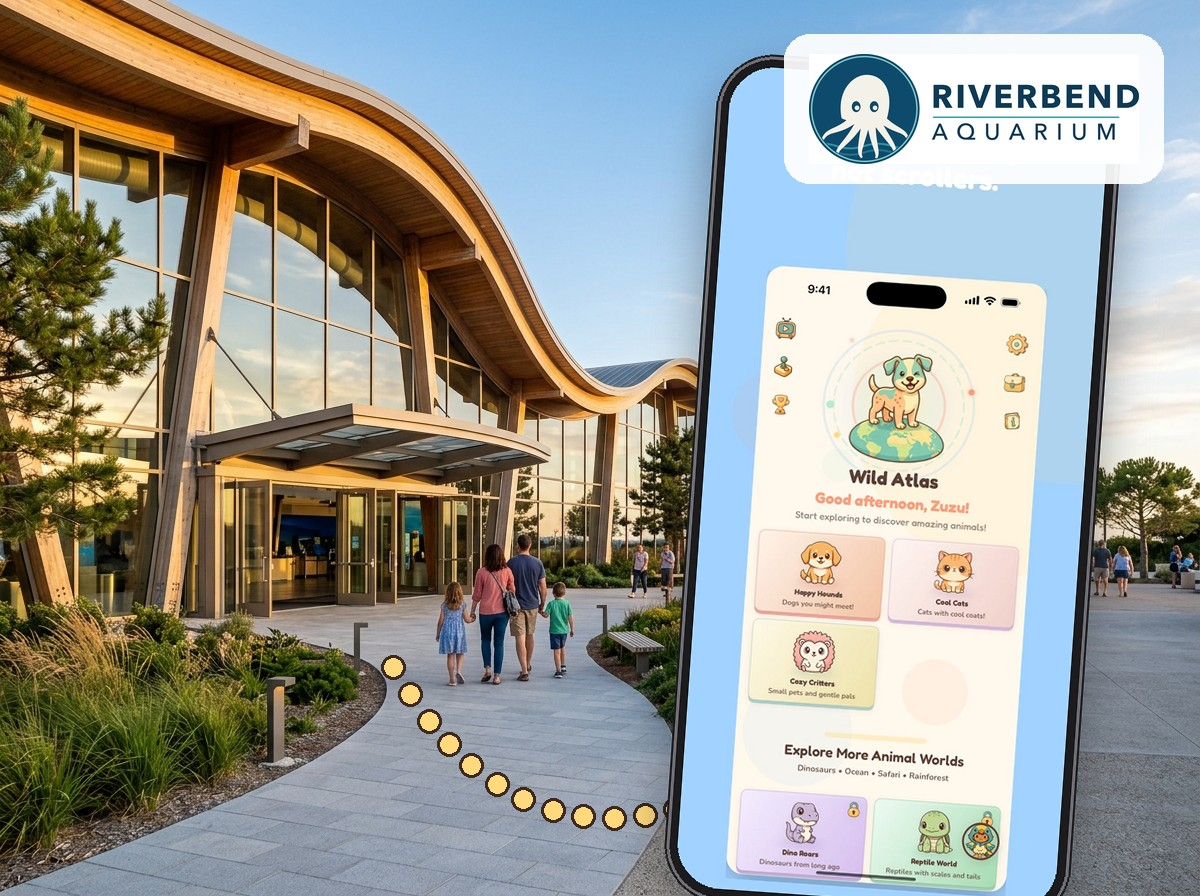
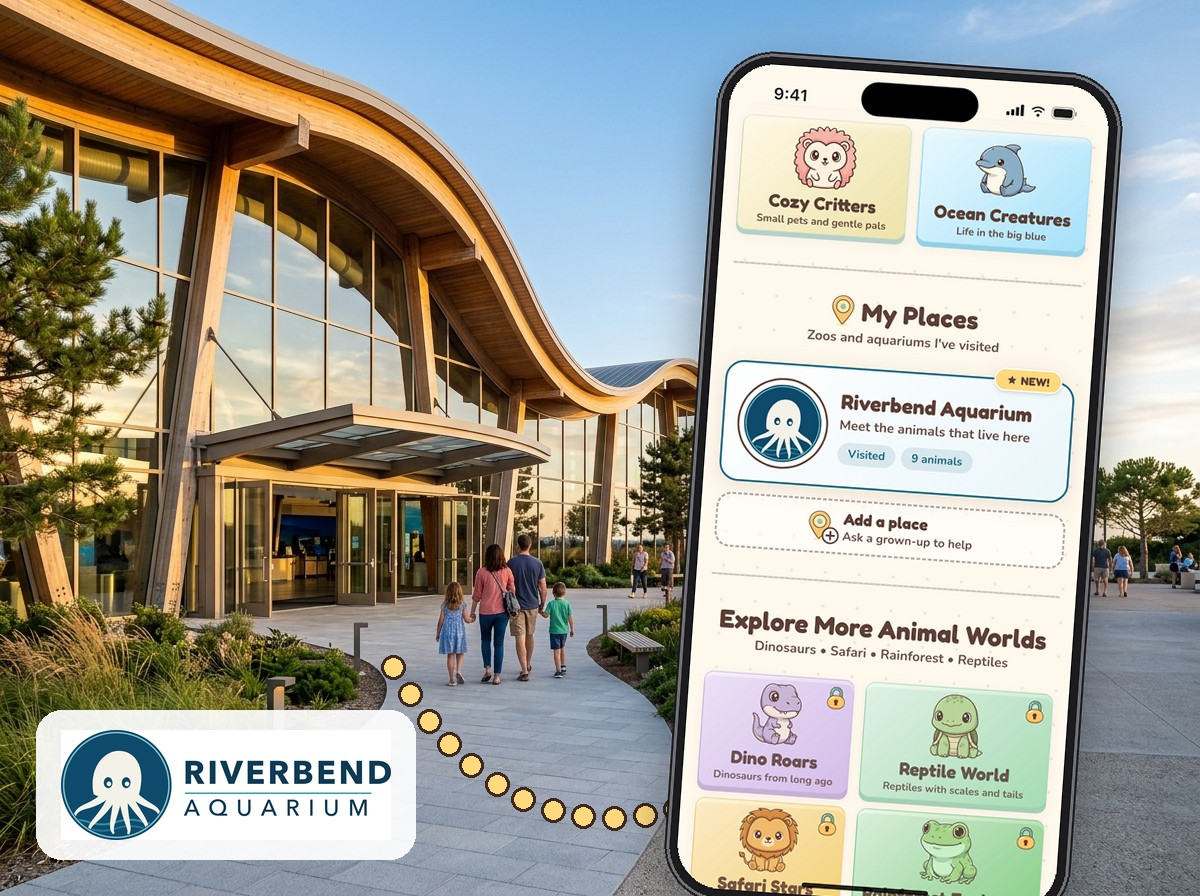
partners: Anna's concept screens in the hero and the Run section
Hero phone now shows the Home screen with My Places (bigger phone, logo tag
moved to the bottom left). Run section shows three phones: Home with My Places,
the venue page (animals), and facts plus top exhibits. Screens are Anna's
round-2 concept PNGs, labelled as concept screens for a fictional venue.
Includes her two extra exhibit photos and design note.

Changed region(s): [[0.555, 0.0312, 0.9867, 1.0], [0.0308, 0.7812, 0.37, 0.9688]]

diff --git a/partners.html b/partners.html
@@ -112,11 +112,11 @@
     .pp-strip:focus-visible { outline: 3px solid var(--peach-pop); outline-offset: 2px; }
 
     /* Run example: phone mockups drawn in the app's look */
-    .pp-phones { display: flex; flex-wrap: wrap; gap: var(--space-xl); justify-content: center; margin-top: var(--space-xl); }
+    .pp-phones { display: flex; flex-wrap: wrap; gap: var(--space-lg); justify-content: center; margin-top: var(--space-xl); }
     .pp-hero-art { margin: 0; }
     .pp-hero-art img { display: block; width: 100%; height: auto; border-radius: var(--radius-md); box-shadow: 0 16px 40px rgba(93, 64, 55, .18); }
     .pp-hero-art figcaption { margin-top: var(--space-xs); font-size: .78rem; opacity: .75; text-align: center; }
-    .pp-phone-wrap { margin: 0; text-align: center; width: min(100%, 300px); }
+    .pp-phone-wrap { margin: 0; text-align: center; width: min(100%, 270px); }
     .pp-phone-wrap img { display: block; width: 100%; height: auto; }
     .pp-phone-wrap figcaption { margin-top: var(--space-xs); font-weight: 700; font-size: .92rem; }
     .pp-strip-wrap { min-width: 0; }
@@ -298,19 +298,23 @@
         <div class="pp-head">
           <p class="pp-eyebrow">Run &middot; what it looks like</p>
           <h2>Your zoo, inside the app.</h2>
-          <p>A tile on the home screen for your venue, and a pack page of your animals. Same narrated, ad-free Wild Atlas experience, with your name on it. We build it at no cost to you.</p>
+          <p>A place for your venue on every child&rsquo;s home screen, and a page of your animals, facts and top exhibits. Same narrated, ad-free Wild Atlas experience, with your name on it. We build it at no cost to you.</p>
         </div>
         <div class="pp-phones">
           <figure class="pp-phone-wrap">
-            <img src="assets/partners/run-home-phone.png" width="718" height="1161" alt="The Wild Atlas home screen with a My Zoo section and a Riverbend Aquarium tile" loading="lazy">
-            <figcaption>Home screen: a &ldquo;My Zoo&rdquo; section with your tile</figcaption>
+            <img src="assets/partners/run-home-phone.png" width="718" height="1161" alt="The Wild Atlas home screen with a My Places section showing a Riverbend Aquarium tile" loading="lazy">
+            <figcaption>Home: a &ldquo;My Places&rdquo; section with your tile</figcaption>
           </figure>
           <figure class="pp-phone-wrap">
-            <img src="assets/partners/run-pack-phone.png" width="718" height="1161" alt="A Riverbend Aquarium pack page with eight animals" loading="lazy">
-            <figcaption>Pack page: your animals, your name</figcaption>
+            <img src="assets/partners/run-pack-phone.png" width="718" height="1161" alt="The Riverbend Aquarium page with a grid of nine animals and page buttons 1, 2 and 3" loading="lazy">
+            <figcaption>Your page: your animals, your name</figcaption>
+          </figure>
+          <figure class="pp-phone-wrap">
+            <img src="assets/partners/run-pack2-phone.png" width="718" height="1161" alt="The lower part of the Riverbend Aquarium page with facts about the aquarium and a row of top exhibits" loading="lazy">
+            <figcaption>Facts and top exhibits, with a grown-up gate</figcaption>
           </figure>
         </div>
-        <p class="pp-run-note"><span class="pp-note">Illustrative mockup</span> &ldquo;Riverbend Aquarium&rdquo; is a fictional venue. The venue tile and pack page are a design example of what we&rsquo;d build together, not a feature in the app today. Screens are illustrative mockups made from real Wild Atlas app screenshots.</p>
+        <p class="pp-run-note"><span class="pp-note">Concept screens</span> &ldquo;Riverbend Aquarium&rdquo; is a fictional venue. These screens show what we would build together; the venue experience is not in the app today. Animal art is from the Wild Atlas app; the exhibit photos are AI-generated.</p>
       </div>
     </section>
 

diff --git a/print-sources/riverbend-book/compose_assets.py b/print-sources/riverbend-book/compose_assets.py
@@ -1,8 +1,9 @@
 #!/usr/bin/env python3
 """Compose the web assets for /partners from generated + real imagery:
   assets/partners/hero-riverbend.jpg   realistic aquarium + the real marketing screenshot in an iPhone
-  assets/partners/run-home-phone.png   Gemini-edited real home screen (My Zoo tile) in an iPhone
-  assets/partners/run-pack-phone.png   Gemini-edited real pack page in an iPhone
+  assets/partners/run-home-phone.png   Anna's concept Home screen (My Places) in an iPhone
+  assets/partners/run-pack-phone.png   Anna's concept pack page, top, in an iPhone
+  assets/partners/run-pack2-phone.png  Anna's concept pack page, facts and exhibits, in an iPhone
   assets/partners/book-*.jpg           pages of the example book PDF"""
 import math, sys
 from pathlib import Path
@@ -41,7 +42,7 @@ def dotted(img, pts, color=(255, 217, 125), step=30, rad=9):
 
 def hero():
     base = Image.open(HERE / "hero" / "hero-bg.jpg").convert("RGB")
-    shot = Image.open(SITE / "assets" / "press" / "ss-home.jpg").convert("RGB")      # real marketing screenshot
+    shot = Image.open(HERE / "screens-anna" / "run-home-places.png").convert("RGB")      # Anna's My Places home screen
     ph = make_phone(shot, 380, tilt=-4)
     base = base.convert("RGBA")
     dotted(base, [(380, 640), (470, 830), (620, 860), (760, 770)])
@@ -50,12 +51,12 @@ def hero():
     tag = tag.crop(ImageOps.invert(tag.convert("L")).point(lambda v: 255 if v > 12 else 0).getbbox())
     tw = 330; tag = tag.resize((tw, int(tag.height * tw / tag.width)), Image.LANCZOS)
     pill = Image.new("RGBA", (tw + 50, tag.height + 40), (0, 0, 0, 0)); ImageDraw.Draw(pill).rounded_rectangle([0, 0, pill.width - 1, pill.height - 1], 26, fill=(255, 255, 255, 235))
-    pill.paste(tag, (25, 20)); base.alpha_composite(pill, (base.width - pill.width - 36, 34))
+    pill.paste(tag, (25, 20)); base.alpha_composite(pill, (36, base.height - pill.height - 36))
     base.convert("RGB").save(OUT / "hero-riverbend.jpg", quality=90); print("hero ok")
 
 def phones():
-    for src, name in (("screens/run-home-t1.jpg", "run-home-phone.png"), ("screens/run-pack-t3.jpg", "run-pack-phone.png")):
-        make_phone(Image.open(HERE / src), 560).save(OUT / name, optimize=True); print(name, "ok")
+    for src, name in (("run-home-places.png", "run-home-phone.png"), ("run-pack-top.png", "run-pack-phone.png"), ("run-pack-lower.png", "run-pack2-phone.png")):
+        make_phone(Image.open(HERE / "screens-anna" / src).convert("RGB"), 560).save(OUT / name, optimize=True); print(name, "ok")
 
 def book_pages(pdf):
     import pymupdf

diff --git a/print-sources/riverbend-book/gen_scenes.py b/print-sources/riverbend-book/gen_scenes.py
@@ -16,6 +16,8 @@ JOBS = {  # name: (aspect, folder, prompt)
   "tunnel": ("4:3", "aquarium", "Inside an aquarium: a curved acrylic walk-through tunnel with sharks and a manta ray gliding overhead in deep blue water, soft rippling light on the floor, small silhouettes of visitors looking up. "),
   "jellies": ("4:3", "aquarium", "An aquarium gallery with a large round tank of glowing translucent moon jellyfish drifting in deep blue water, softly lit, a couple of visitor silhouettes in the foreground. "),
   "touchpool": ("4:3", "aquarium", "An aquarium touch pool: children's hands (no faces) gently touching a starfish in shallow clear water in a rock-lined pool, bright natural light, a few orange and purple sea stars visible. "),
+  "otterbay": ("4:3", "aquarium", "An aquarium marine-mammal gallery: a big glass viewing window onto a rocky pool where a sea otter floats on its back at the surface and a sea lion glides past underwater, bright natural light, a couple of visitor silhouettes in the foreground. "),
+  "rainforest": ("4:3", "aquarium", "An aquarium indoor rainforest gallery: lush green plants and a mossy log in a glass-fronted habitat with a bright blue poison dart frog on a leaf and a sloth hanging from a branch, warm humid light, a couple of visitor silhouettes in the foreground. "),
   "hero-bg": ("4:3", "hero", "A wide scene of the front plaza of an imaginary modern public aquarium: a curved glass-and-timber facade with a wave-shaped roof and wide entrance doors on the left, a smooth paved path curving from the foreground toward the right of the frame, planters and low greenery, clear blue sky with a few soft clouds, golden-hour light, open uncluttered space on the right side and in the lower right for overlaying a phone. "),
 }
 def call(prompt, ar):

diff --git a/print-sources/riverbend-book/screens-anna/DESIGN_NOTE.md b/print-sources/riverbend-book/screens-anna/DESIGN_NOTE.md
@@ -1,0 +1,81 @@
+# Riverbend concept screens — design note
+
+**Round 2 (2026-10-06), from Josh's review notes:** "Add a place" smaller; pack-page and Home copy no longer assume a same-day visit ("Meet the animals that live at Riverbend…", pill "Visited"); 118-character place description above the stats; For grown-ups card replaced by a **Learn more** pill (website, behind the parental gate, same F11 teal pair, 7.61:1); every Top Exhibits card is now a photo (two new Gemini photos via `gen_scenes.py`: `otterbay`, `rainforest`). Sections below describing the For grown-ups card and the duo animal tiles are superseded by this round.
+
+Three PNGs, 1206x2622, screen only: `run-home-places.png`, `run-pack-top.png`, `run-pack-lower.png`.
+
+## How they were made (read first)
+
+**Drawn, not rendered from the app.** HTML/CSS built to the shipped components' specs, screenshotted headless at 402x874 @3x. It uses the app's real fonts (Fredoka, Nunito), real pack mascots (`GeneratedPackMascots`), real animal hero art, and the real back, lock, pin and treasure icons. It is not a SwiftUI render, so it is "same standard", not pixel-identical. Source and generator are in `source/` (`python3 gen.py`, then `shot.sh`).
+
+The status bar is drawn. A cream scrim sits under it on Home so the scrolled-out Happy Hounds row doesn't collide with the clock. The app has no such scrim, so this is a cosmetic liberty.
+
+I omitted the "Sample facts for a fictional venue" caption from your layout, since the app wouldn't show it. **The partner page should label these as concept.**
+
+## Checklist
+
+**A. System**
+- Palette: pass. All AppTheme tokens, plus a manifest-style venue pack palette (accent `#1F6A85`, wash `#EAF6FB`), which pack surfaces are meant to have (DESIGN_SYSTEM §1 "Off-token by design"). peachPop is not used anywhere. That is correct, because the Home CTA is off-screen and no new primary action exists.
+- Fonts: pass. Fredoka and Nunito only. Nunito 600 renders as 700 (only Regular and Bold ship).
+- Radius/stroke/shadow: pass.
+  - Home tiles r10, gradient + offset base (HomeView.swift:2480-2560).
+  - Places card r20, GameDen style (GameDenView.swift:643).
+  - Fact and exhibit cards r16/r22 with 2pt warmBark.
+  - Shadows 0.08–0.14.
+- Canonical components reused:
+  - Pack tile (HomeView.swift ~2470).
+  - GameDenCardLayout, pill and NEW! capsule (GameDenView.swift:643-814).
+  - Pack hero header (PackAndAnimalPages.swift:2650).
+  - 3x3 grid (:3100).
+  - PageDots (PageDots.swift).
+  - Paw progress card (:5585).
+  - Back button.
+  - Utility card = F11 pair.
+- **Doc drift found:** DESIGN_SYSTEM §4 says AnimalTile is r10 with a 2pt warmBark stroke. `AnimalTile.swift` was deleted in #689. The shipped grid tile (PackAndAnimalPages.swift:3338-3350) is white, **r24, 1pt warmBark@0.15**, Nunito bold 12. I matched the shipped code, not the doc, so the pack page looks like the real Dino page. New cards (fact tiles, exhibits, Places) use the documented 2pt warmBark idiom. DESIGN_SYSTEM §4 and §7 need an update (separate thread).
+
+**B. Kids**
+- Pass, TC-1/TC-7:
+  - The map-pin icon plus the NEW! capsule find "My Places" with no reading.
+  - The Riverbend tile is the only emblem tile on Home.
+  - The whole card is the tap target, far above 44pt.
+  - Page dots are 46pt.
+  - The "Find it on the map" pill is 44pt, with a pin icon.
+- Page 1 is exactly the 9 animals the child "met today". They carry the shipped visited checkmark, and the paw card shows 9/27. It is consistent with the "9 animals" pill on Home.
+- Nothing needs reading to proceed. The "Add a place" tile only opens a gate.
+
+**C. Compliance**
+- AR-1: pass. "Add a place" and "For grown-ups" are gate-first (AR-1), reusing `ParentalGateController`. No new gate is invented.
+- AR-2: **open item.** "Find it on the map" must open a bundled, venue-supplied illustrated map. A third-party maps SDK or tile service would violate AR-2. In a build this needs Ingrid's first-party design.
+- AR-3: pass. The ticket copy is addressed to grown-ups, and no commerce is shown to the child.
+- Strings: this skill wrote none for production. All copy is sample copy and would go through the i18n skill.
+
+**D. Accessibility (contrast computed, not eyeballed)**
+- warmBark on the utilityTeal wash `#D5EDEC`: **7.61:1** (the F11 pair).
+- warmBark on sunnySounds, NEW! text: **6.86:1**.
+- warmBark on skyTweeter, active page number: **5.86:1**.
+- Venue accent `#1F6A85` on its 12% pill wash: **5.11:1**.
+- White check on the accent paw dot: **~6.1:1**.
+- Subtitle text is warmBark at 0.92 on pack tiles. This avoids F3.
+
+**Deviations from the shipped look (all to avoid extending F-findings):**
+1. **NEW! text is warmBark, not white.** White on sunnySounds is F2 at 1.36:1. The shape and star match GameDenCardBadge.
+2. **Active page-dot numeral is warmBark, not white.** Shipped white on skyTweeter is **1.59:1**. This is an **unregistered finding in the F1/F2 family**, worth adding to the register.
+3. **Pack-tile subtitles are 0.92 opacity, not 0.78** (F3).
+4. Unvisited paw dots use warmBark 0.55 glyphs as shipped. That is decorative, and the caption carries the meaning (AX-5).
+
+**E. Motion:** n/a (static). In a build the Places tile would use the standard `DelightPressStyle` only, with no throb, because the single attention motion stays on the Home CTA (MO-2).
+
+**F. Session/ethics:** pass. No streaks and no urgency. "Visited today" is a statement, not a timer. The NEW! capsule is not a countdown.
+
+**TC-4b:** the For grown-ups card has no mascot. It uses the gold lock icon, which is the shipped "locked pack" art. See the question below.
+
+## Open questions
+
+1. **"My Places" vs "My Visits":** keep **My Places**. It is a noun that matches the pin icon. For a pre-reader the pin does the work (TC-1), and "Visits" is an abstract event word. Needs Josh if he prefers the other.
+2. **Map preview card above Top Exhibits:** **no.** It adds a third vertical block, so the page scrolls more (F9). The per-exhibit pills already open the map. A map would belong on the exhibit sheet, not the pack page.
+3. **"Add a place" on Home:** **keep it in the pitch, but not in a build.** For the pitch it shows how places arrive. In a real build I'd show it only when My Places is empty (first-run), and move the persistent entry to the grown-up side (rail or settings). A permanent gate-only tile on the kid surface is a mine-sweep dead end (NN-5), though it is harmless because it only opens the gate. Needs Josh.
+4. **Emblem in a circle vs a mascot-style illustration:** the emblem is a logo, which reads as adult brand. Kids bond with characters (TC-4). For the pitch the emblem is right, because the venue stays recognisable. For a build I'd commission a venue buddy in the pack-mascot style (octopus is natural), with the emblem as the small corner mark. **Needs Josh.**
+
+## One more flag
+
+The gold padlock on the For grown-ups card reads as "locked pack" elsewhere in the app. A teal-tinted or outline lock would fit the utility language better. This is cosmetic and I left the shipped art in.
